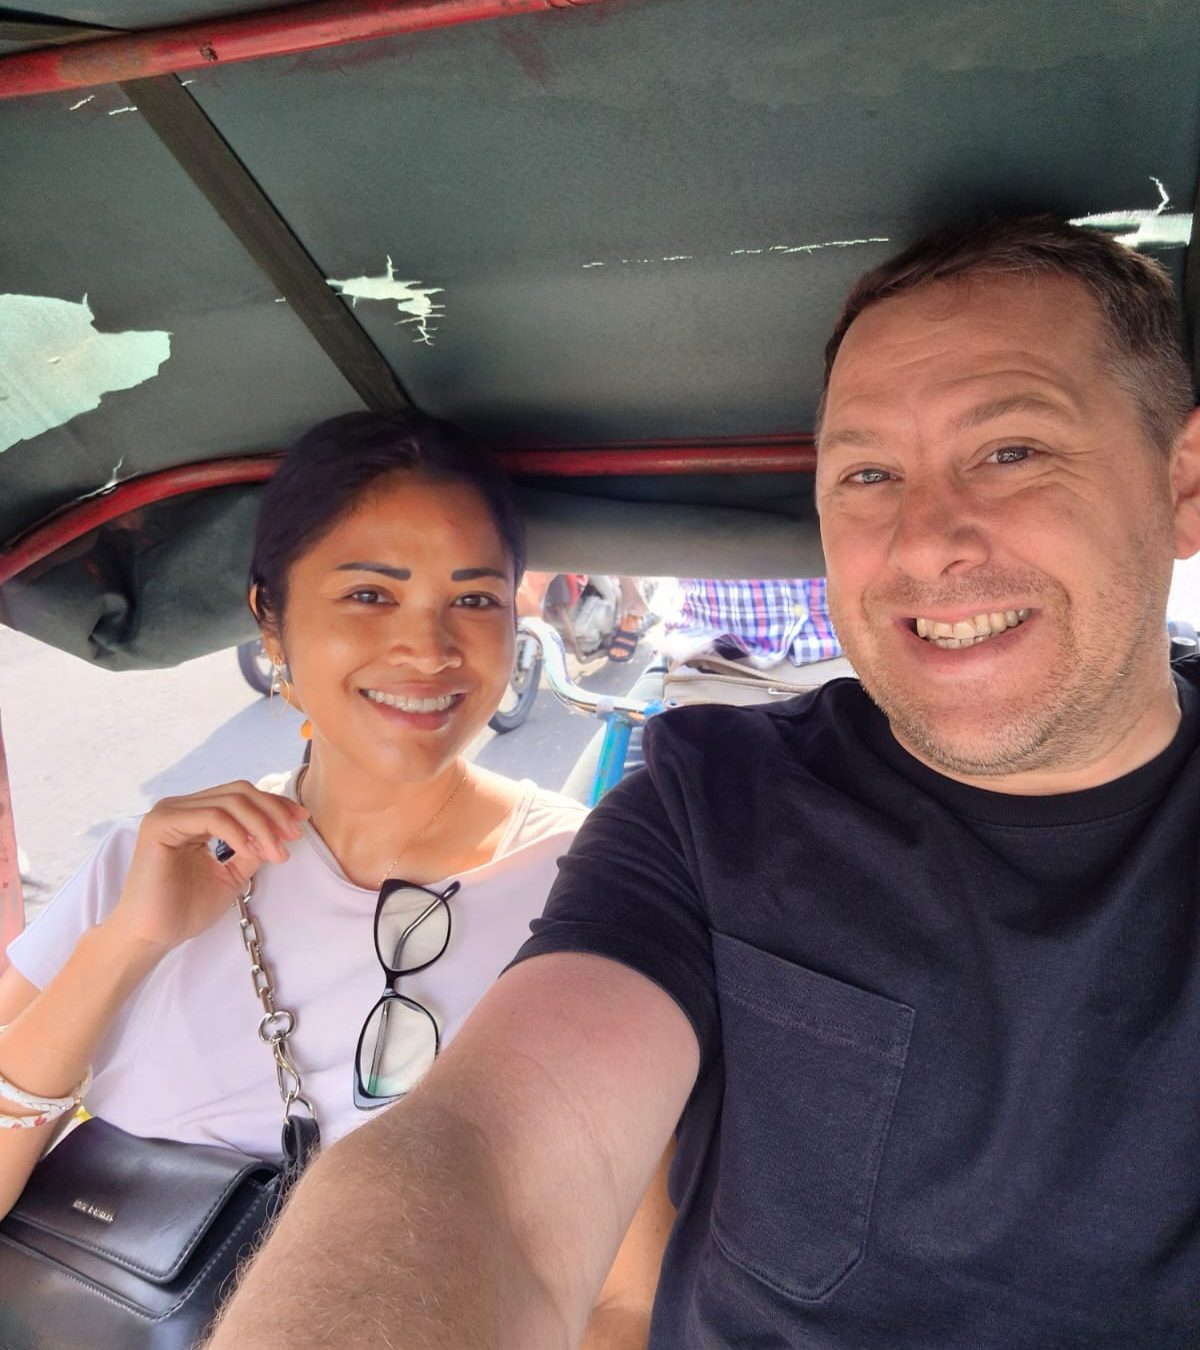
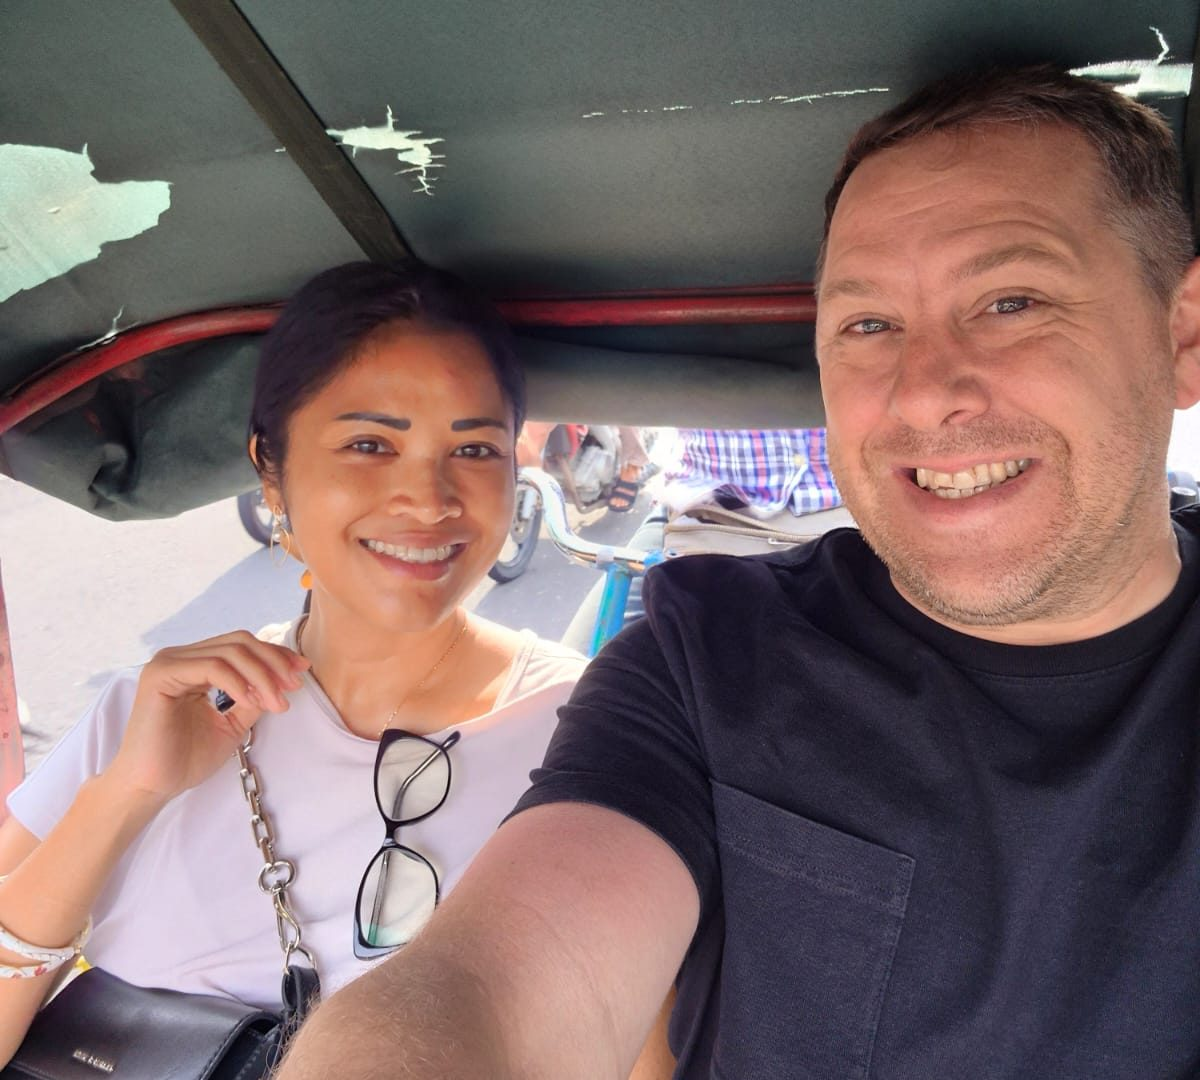
About: tighter crop and smaller display for main Yuli + Nic photo; bump CSS v=2.4

diff --git a/index.html b/index.html
@@ -25,7 +25,7 @@
 <link rel="preconnect" href="https://fonts.googleapis.com">
 <link rel="preconnect" href="https://fonts.gstatic.com" crossorigin>
 <link href="https://fonts.googleapis.com/css2?family=Cormorant+SC:wght@300;400;500&family=Cormorant:ital,wght@1,400;1,500&family=DM+Sans:opsz,wght@9..40,300;9..40,400;9..40,500&display=swap" rel="stylesheet">
-<link rel="stylesheet" href="style.css?v=2.3">
+<link rel="stylesheet" href="style.css?v=2.4">
 <script type="application/ld+json">
 {
   "@context": "https://schema.org",
@@ -257,7 +257,7 @@
 
     <div class="story-open">
       <figure class="story-photo story-photo--main rv">
-        <img src="yuli-nic-together.jpg" alt="Yuli and Nic smiling together on a becak ride through a busy Indonesian street" width="1200" height="1350" loading="lazy">
+        <img src="yuli-nic-together.jpg" alt="Yuli and Nic smiling together on a becak ride through a busy Indonesian street" width="1200" height="1080" loading="lazy">
       </figure>
       <div class="story-text story-text--open">
         <p class="story-lead rv">Yunic began with Yuli and Nic.</p>

diff --git a/style.css b/style.css
@@ -291,8 +291,8 @@ button{font:inherit;background:none;border:0;cursor:pointer;color:inherit}
 }
 .story-ph span{font:500 .68rem/1.9 var(--sans);letter-spacing:.28em;text-transform:uppercase;color:var(--gold-deep);max-width:26ch}
 .story-photo img{width:100%;height:100%;object-fit:cover}
-.story-open{display:grid;grid-template-columns:minmax(0,7fr) minmax(0,5fr);gap:clamp(2.5rem,6vw,6rem);align-items:end}
-.story-photo--main{aspect-ratio:8/9;margin-left:calc(-1 * clamp(0rem,3vw,3rem))}
+.story-open{display:grid;grid-template-columns:minmax(0,6fr) minmax(0,6fr);gap:clamp(2.5rem,6vw,6rem);align-items:end}
+.story-photo--main{aspect-ratio:10/9;max-width:600px}
 .story-text--open{padding-bottom:clamp(0rem,3vw,2.5rem)}
 .story .story-lead{font:400 clamp(1.5rem,2.3vw,1.9rem)/1.3 var(--serif);color:var(--ink)}
 .story-pause{

diff --git a/consulting.html b/consulting.html
@@ -19,7 +19,7 @@
 <link rel="preconnect" href="https://fonts.googleapis.com">
 <link rel="preconnect" href="https://fonts.gstatic.com" crossorigin>
 <link href="https://fonts.googleapis.com/css2?family=Cormorant+SC:wght@300;400;500&family=Cormorant:ital,wght@1,400;1,500&family=DM+Sans:opsz,wght@9..40,300;9..40,400;9..40,500&display=swap" rel="stylesheet">
-<link rel="stylesheet" href="style.css?v=2.3">
+<link rel="stylesheet" href="style.css?v=2.4">
 </head>
 <body>
 <div class="grain" aria-hidden="true"></div>

diff --git a/dive-and-dine.html b/dive-and-dine.html
@@ -19,7 +19,7 @@
 <link rel="preconnect" href="https://fonts.googleapis.com">
 <link rel="preconnect" href="https://fonts.gstatic.com" crossorigin>
 <link href="https://fonts.googleapis.com/css2?family=Cormorant+SC:wght@300;400;500&family=Cormorant:ital,wght@1,400;1,500&family=DM+Sans:opsz,wght@9..40,300;9..40,400;9..40,500&display=swap" rel="stylesheet">
-<link rel="stylesheet" href="style.css?v=2.3">
+<link rel="stylesheet" href="style.css?v=2.4">
 </head>
 <body>
 <div class="grain" aria-hidden="true"></div>

diff --git a/gallery.html b/gallery.html
@@ -19,7 +19,7 @@
 <link rel="preconnect" href="https://fonts.googleapis.com">
 <link rel="preconnect" href="https://fonts.gstatic.com" crossorigin>
 <link href="https://fonts.googleapis.com/css2?family=Cormorant+SC:wght@300;400;500&family=Cormorant:ital,wght@1,400;1,500&family=DM+Sans:opsz,wght@9..40,300;9..40,400;9..40,500&display=swap" rel="stylesheet">
-<link rel="stylesheet" href="style.css?v=2.3">
+<link rel="stylesheet" href="style.css?v=2.4">
 </head>
 <body>
 <div class="grain" aria-hidden="true"></div>

diff --git a/journey.html b/journey.html
@@ -19,7 +19,7 @@
 <link rel="preconnect" href="https://fonts.googleapis.com">
 <link rel="preconnect" href="https://fonts.gstatic.com" crossorigin>
 <link href="https://fonts.googleapis.com/css2?family=Cormorant+SC:wght@300;400;500&family=Cormorant:ital,wght@1,400;1,500&family=DM+Sans:opsz,wght@9..40,300;9..40,400;9..40,500&display=swap" rel="stylesheet">
-<link rel="stylesheet" href="style.css?v=2.3">
+<link rel="stylesheet" href="style.css?v=2.4">
 </head>
 <body>
 <div class="grain" aria-hidden="true"></div>

diff --git a/media.html b/media.html
@@ -19,7 +19,7 @@
 <link rel="preconnect" href="https://fonts.googleapis.com">
 <link rel="preconnect" href="https://fonts.gstatic.com" crossorigin>
 <link href="https://fonts.googleapis.com/css2?family=Cormorant+SC:wght@300;400;500&family=Cormorant:ital,wght@1,400;1,500&family=DM+Sans:opsz,wght@9..40,300;9..40,400;9..40,500&display=swap" rel="stylesheet">
-<link rel="stylesheet" href="style.css?v=2.3">
+<link rel="stylesheet" href="style.css?v=2.4">
 </head>
 <body>
 <div class="grain" aria-hidden="true"></div>

diff --git a/people-behind-the-plate.html b/people-behind-the-plate.html
@@ -19,7 +19,7 @@
 <link rel="preconnect" href="https://fonts.googleapis.com">
 <link rel="preconnect" href="https://fonts.gstatic.com" crossorigin>
 <link href="https://fonts.googleapis.com/css2?family=Cormorant+SC:wght@300;400;500&family=Cormorant:ital,wght@1,400;1,500&family=DM+Sans:opsz,wght@9..40,300;9..40,400;9..40,500&display=swap" rel="stylesheet">
-<link rel="stylesheet" href="style.css?v=2.3">
+<link rel="stylesheet" href="style.css?v=2.4">
 </head>
 <body>
 <div class="grain" aria-hidden="true"></div>

diff --git a/private-chef.html b/private-chef.html
@@ -19,7 +19,7 @@
 <link rel="preconnect" href="https://fonts.googleapis.com">
 <link rel="preconnect" href="https://fonts.gstatic.com" crossorigin>
 <link href="https://fonts.googleapis.com/css2?family=Cormorant+SC:wght@300;400;500&family=Cormorant:ital,wght@1,400;1,500&family=DM+Sans:opsz,wght@9..40,300;9..40,400;9..40,500&display=swap" rel="stylesheet">
-<link rel="stylesheet" href="style.css?v=2.3">
+<link rel="stylesheet" href="style.css?v=2.4">
 </head>
 <body>
 <div class="grain" aria-hidden="true"></div>

diff --git a/private-dinner.html b/private-dinner.html
@@ -19,7 +19,7 @@
 <link rel="preconnect" href="https://fonts.googleapis.com">
 <link rel="preconnect" href="https://fonts.gstatic.com" crossorigin>
 <link href="https://fonts.googleapis.com/css2?family=Cormorant+SC:wght@300;400;500&family=Cormorant:ital,wght@1,400;1,500&family=DM+Sans:opsz,wght@9..40,300;9..40,400;9..40,500&display=swap" rel="stylesheet">
-<link rel="stylesheet" href="style.css?v=2.3">
+<link rel="stylesheet" href="style.css?v=2.4">
 </head>
 <body>
 <div class="grain" aria-hidden="true"></div>

diff --git a/yunic-dining.html b/yunic-dining.html
@@ -19,7 +19,7 @@
 <link rel="preconnect" href="https://fonts.googleapis.com">
 <link rel="preconnect" href="https://fonts.gstatic.com" crossorigin>
 <link href="https://fonts.googleapis.com/css2?family=Cormorant+SC:wght@300;400;500&family=Cormorant:ital,wght@1,400;1,500&family=DM+Sans:opsz,wght@9..40,300;9..40,400;9..40,500&display=swap" rel="stylesheet">
-<link rel="stylesheet" href="style.css?v=2.3">
+<link rel="stylesheet" href="style.css?v=2.4">
 </head>
 <body>
 <div class="grain" aria-hidden="true"></div>
